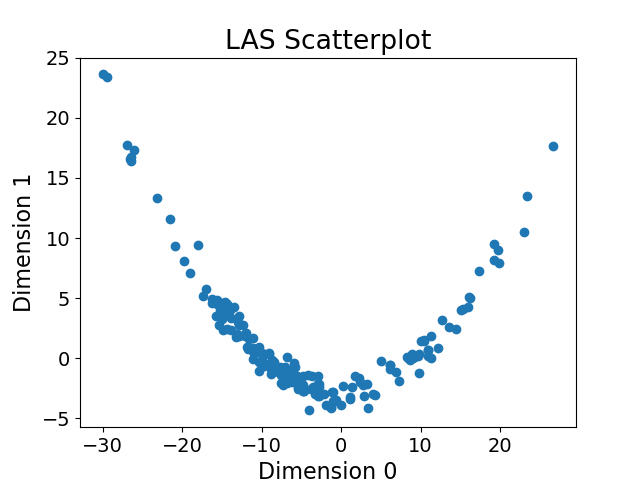
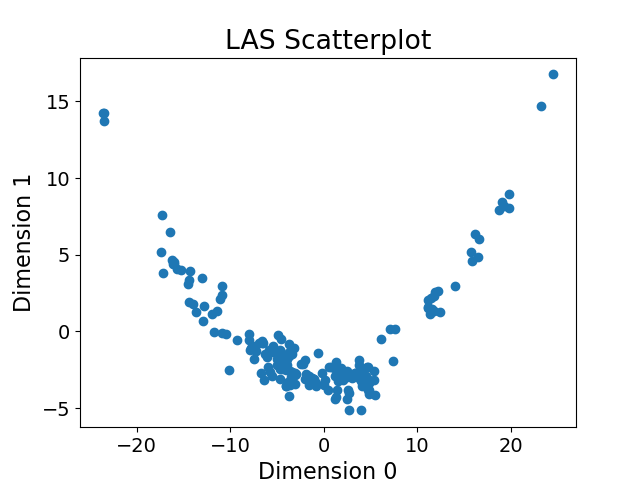
las

diff --git a/sampler-comparison/sampler_comparison/samplers/las.py b/sampler-comparison/sampler_comparison/samplers/las.py
@@ -6,7 +6,9 @@ sys.path.append("../../blackjax")
 
 from sampler_comparison.samplers.general import make_log_density_fn
 import blackjax
+from sampler_evaluation.evaluation.ess import samples_to_low_error, get_standardized_squared_error
 
+import numpy as np
 import jax
 import jax.numpy as jnp
 from sampler_evaluation.models.banana import banana
@@ -24,7 +26,7 @@ def las(num_steps1, num_steps2, num_chains, diagonal_preconditioning=True):
         # #model.sample_transformations["square"].fn(position)
         # observables_for_bias = lambda position:jnp.square(model.default_event_space_bijector(jax.flatten_util.ravel_pytree(position)[0]))
 
-        position = blackjax.adaptation.las.las(
+        unadjusted_position, adjusted_position, infos, num_steps_unadjusted = blackjax.adaptation.las.las(
             logdensity_fn=logdensity_fn,
             key=key,
             # sample_init=model.sample_init,
@@ -34,7 +36,7 @@ def las(num_steps1, num_steps2, num_chains, diagonal_preconditioning=True):
             num_chains=num_chains,
             diagonal_preconditioning=diagonal_preconditioning
         )
-        return position
+        return unadjusted_position, adjusted_position, infos, num_steps_unadjusted
 
         
     return s
@@ -48,18 +50,60 @@ if __name__ == "__main__":
     diagonal_preconditioning = True
     print("running las")
     sampler = las(num_steps1, num_steps2, num_chains, diagonal_preconditioning)
-    samples = sampler(model, key=jax.random.key(0))
+    unadjusted_samples, adjusted_samples, infos, num_steps_unadjusted = sampler(model, key=jax.random.key(0))
     # print(samples)
-    print(samples.shape)
+    # print(samples.shape)
+    
+    unadjusted_error_at_each_step = jnp.nanmedian(get_standardized_squared_error(
+    np.expand_dims(unadjusted_samples,0), 
+    f=model.sample_transformations["square"],
+    E_f=model.sample_transformations["square"].ground_truth_mean,
+    Var_f=model.sample_transformations["square"].ground_truth_standard_deviation**2
+    ),axis=0)
+
+    adjusted_error_at_each_step = ((((adjusted_samples**2).mean(axis=1) - model.sample_transformations["square"].ground_truth_mean[None, :])**2)/(model.sample_transformations["square"].ground_truth_standard_deviation[None, :]**2)).mean(axis=-1)
+
+
+    adjusted_error_at_each_step_single = ((((unadjusted_samples**2).mean(axis=0) - model.sample_transformations["square"].ground_truth_mean)**2)/(model.sample_transformations["square"].ground_truth_standard_deviation**2))
+    print("adjusted_error_at_each_step_single", adjusted_error_at_each_step_single)
 
     import matplotlib.pyplot as plt
     plt.rcParams['xtick.labelsize'] = 14
     plt.rcParams['ytick.labelsize'] = 14
     plt.rcParams['font.size'] = 16
     # plot scatterplot of samples
-    plt.scatter(samples[:,0], samples[:,1])
+    plt.scatter(adjusted_samples[-1, :,0], adjusted_samples[-1, :,1])
     plt.xlabel('Dimension 0')
     plt.ylabel('Dimension 1')
     plt.title('LAS Scatterplot')
     plt.savefig('las_scatterplot.png')
     plt.close()
+
+    # print plot of the bias
+    print("Shapes")
+    # print(error_at_each_step.shape, error_at_each_step)
+    print(adjusted_samples.shape)
+    print(unadjusted_samples.shape)
+    # print(infos.shape)
+    print(unadjusted_error_at_each_step.shape)
+    print(adjusted_error_at_each_step.shape)
+    # line plot of error at each step
+
+    ### COUNT GRADIENT CALLS!!!! TODO TODO
+    plt.plot(np.concatenate([unadjusted_error_at_each_step, adjusted_error_at_each_step]))
+    # add a vertical line at the end of the unadjusted phase
+    plt.axvline(x=num_steps_unadjusted, color='black', linestyle='--')
+    # plt.plot(unadjusted_error_at_each_step)
+    plt.savefig('las_bias.png')
+    plt.close()
+    plt.plot(adjusted_error_at_each_step)
+    plt.savefig('las_bias_adjusted.png')
+    plt.close()
+    # plt.plot(np.concatenate([unadjusted_error_at_each_step, adjusted_error_at_each_step]))
+
+
+
+
+    # unadjusted samples
+
+    # adjusted samples
